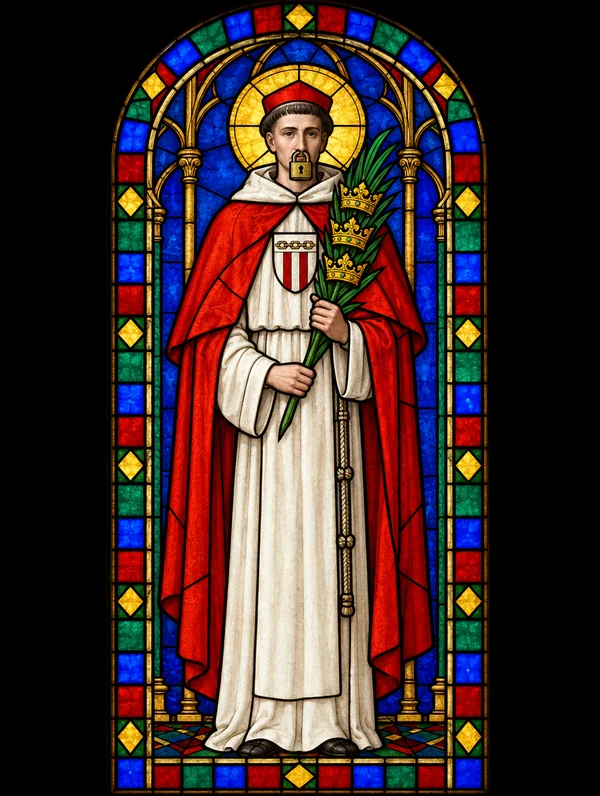
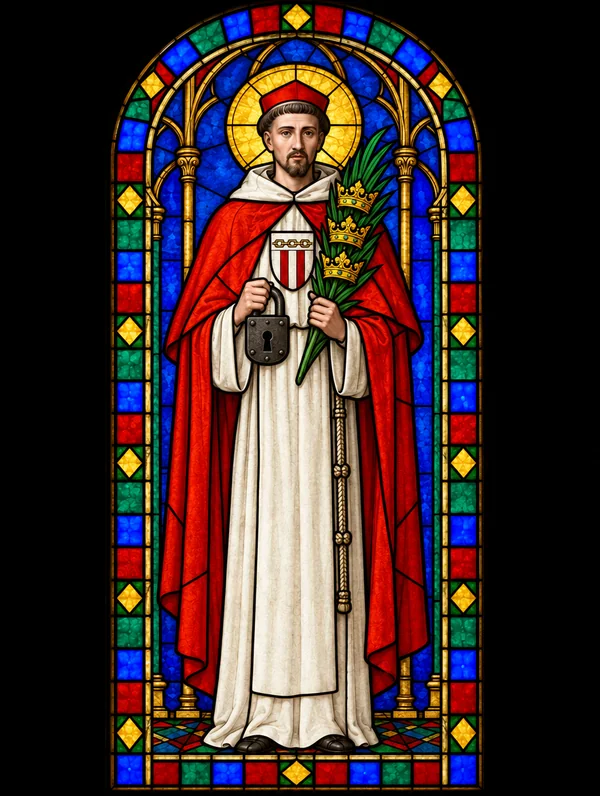
São Raimundo Nonato: o cadeado sai dos lábios e vai para a mão
No rosto, o cadeado parecia um piercing no nariz. A figura passa a
segurá-lo na mão direita, com a palma das três coroas na esquerda.

O cache de imagens sobe para v4, para os aparelhos receberem a nova.

diff --git a/testes/offline.js b/testes/offline.js
@@ -65,7 +65,7 @@ const relata = (nome, prob) => { linhas.push(`${nome}: problemas: ${prob.length 
       }
       await roda(`document.querySelector("#foot button").click()`);
       if (!await ate(`return document.getElementById("foot").textContent.startsWith("Pronto")`, 120)) prob.push("não terminou de guardar: " + await rodape());
-      const [tem, total] = await roda(`const q = window.__quiz; return [(await (await caches.open("quiz-santos-imagens-v3")).keys()).length, q.COM_FIGURA.length + q.COM_SIMBOLOS.length]`);
+      const [tem, total] = await roda(`const q = window.__quiz; return [(await (await caches.open("quiz-santos-imagens-v4")).keys()).length, q.COM_FIGURA.length + q.COM_SIMBOLOS.length]`);
       if (tem !== total) prob.push(`guardou ${tem} de ${total} imagens`);
       if (!await ate(`return !!navigator.serviceWorker.controller`, 10)) prob.push("o sw.js não assumiu a página");
     }

diff --git a/index.html b/index.html
@@ -1441,7 +1441,7 @@ h1 { font-family: var(--display); font-weight: 400; font-size: 2rem; margin: 0; 
   });
 
   // Jogar sem internet. O sw.js serve o que estiver guardado no aparelho; aqui se guardam as imagens todas de uma vez.
-  const CACHE_IMAGENS = "quiz-santos-imagens-v3"; // o mesmo nome que está no sw.js
+  const CACHE_IMAGENS = "quiz-santos-imagens-v4"; // o mesmo nome que está no sw.js
   const todasImagens = () => [...COM_FIGURA.map(id => arquivo("santos", id)), ...COM_SIMBOLOS.map(id => arquivo("simbolos", id))];
   const offline = {
     async faltam() {

diff --git a/sw.js b/sw.js
@@ -2,7 +2,7 @@
 // Mudou favicon, ícone ou manifesto: suba o número de CASCA. Refez imagem com o mesmo nome: ponha (ou suba) o número
 // dela em REFEITAS, no index.html, e só ela é baixada de novo. Subir o de IMAGENS faz baixar todas outra vez.
 const CASCA = "quiz-santos-casca-v1";
-const IMAGENS = "quiz-santos-imagens-v3";
+const IMAGENS = "quiz-santos-imagens-v4";
 const ARQUIVOS = ["./", "manifest.webmanifest", "favicon.svg", "favicon-180.png", "icone-192.png", "icone-512.png", "icone-mascara-512.png"];
 
 self.addEventListener("install", e => e.waitUntil(

diff --git a/prompts-higgsfield.md b/prompts-higgsfield.md
@@ -107,7 +107,7 @@ Modelo `gpt_image_2_5`, qualidade `high`, resolução `1k`, proporção 3:4.
 | 87 | luisgonzaga | São Luís Gonzaga | Saint Aloysius Gonzaga, young Jesuit in black cassock and white surplice, gazing at a crucifix in his hands, a white lily beside him, a marquis crown lying on the ground | coroa no chão, lírio, crucifixo | a crown with plain pointed tips lying on the ground, a white lily, and a crucifix |
 | 88 | camilo | São Camilo de Lélis | Saint Camillus de Lellis, tall bearded priest in a black habit with a large plain red cross on the chest, supporting a sick man | cruz vermelha no hábito preto | a black religious habit hanging with a large plain red cross on its chest |
 | 89 | martinholima | São Martinho de Lima | Saint Martin de Porres, Black Dominican lay brother in white tunic and black cape, holding a straw broom, at his feet a dog, a cat and a mouse eating together from one dish | vassoura; cão, gato e rato no mesmo prato | a straw broom, and a dog, a cat and a mouse eating together from one dish |
-| 90 | raimundononato | São Raimundo Nonato | Saint Raymond Nonnatus, Mercedarian friar in white habit with a red cardinal's cape, a padlock on his lips, holding a palm branch with three crowns on it | cadeado nos lábios, palma com 3 coroas | an iron padlock, and a green palm branch with exactly three small crowns threaded on it |
+| 90 | raimundononato | São Raimundo Nonato | Saint Raymond Nonnatus, Mercedarian friar in white habit with a red cardinal's cape, his face clean with nothing on his mouth or nose, holding a large dark iron padlock in his right hand and a palm branch with three crowns on it in his left hand, exactly two arms and two hands | cadeado na mão (não no rosto), palma com 3 coroas | an iron padlock, and a green palm branch with exactly three small crowns threaded on it |
 | 91 | vianney | São João Maria Vianney | Saint John Vianney, thin elderly French priest with long white hair, black cassock, white surplice and a purple stole, standing beside a wooden confessional | estola roxa, confessionário | a purple priest's stole, and a wooden confessional with a latticed grille |
 | 92 | tarcisio | São Tarcísio | Saint Tarcisius, young Roman boy in a white tunic, clutching a small golden pyx to his chest with both hands, a martyr's palm beside him | teca dourada junto ao peito, palma | a small round golden pyx with a cross on its lid held by two hands against a white tunic, and a green palm branch |
 | 93 | joaodiego | São Juan Diego | Saint Juan Diego, indigenous Mexican man with a short beard, opening his cloak to show the image of Our Lady of Guadalupe on it, roses falling to the ground | manto com a imagem de Guadalupe, rosas | an open cloak bearing the image of Our Lady of Guadalupe, with red roses falling from it |
